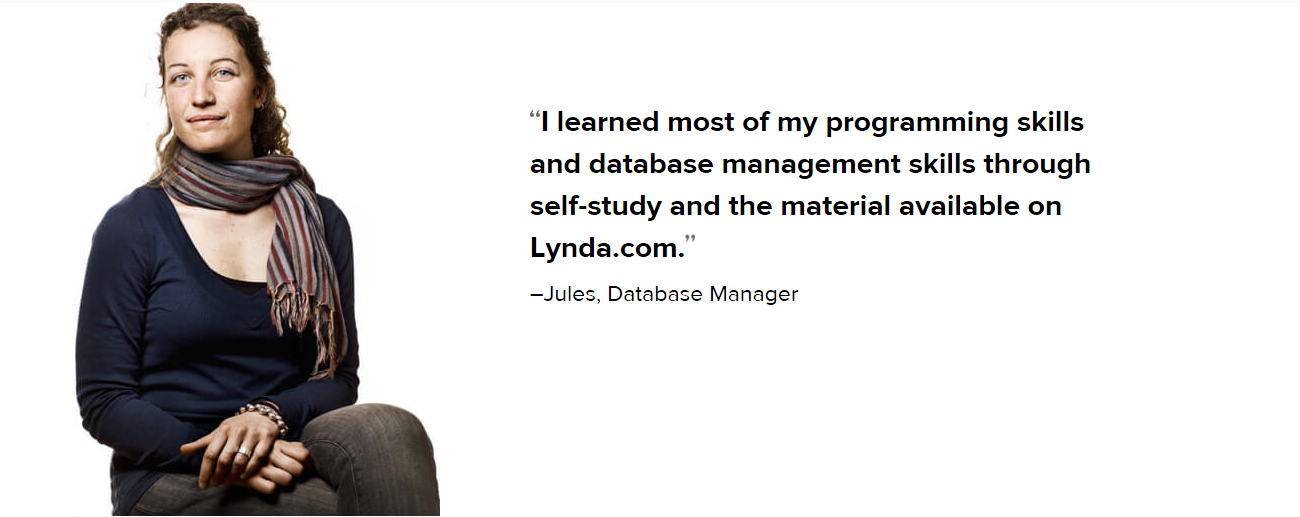
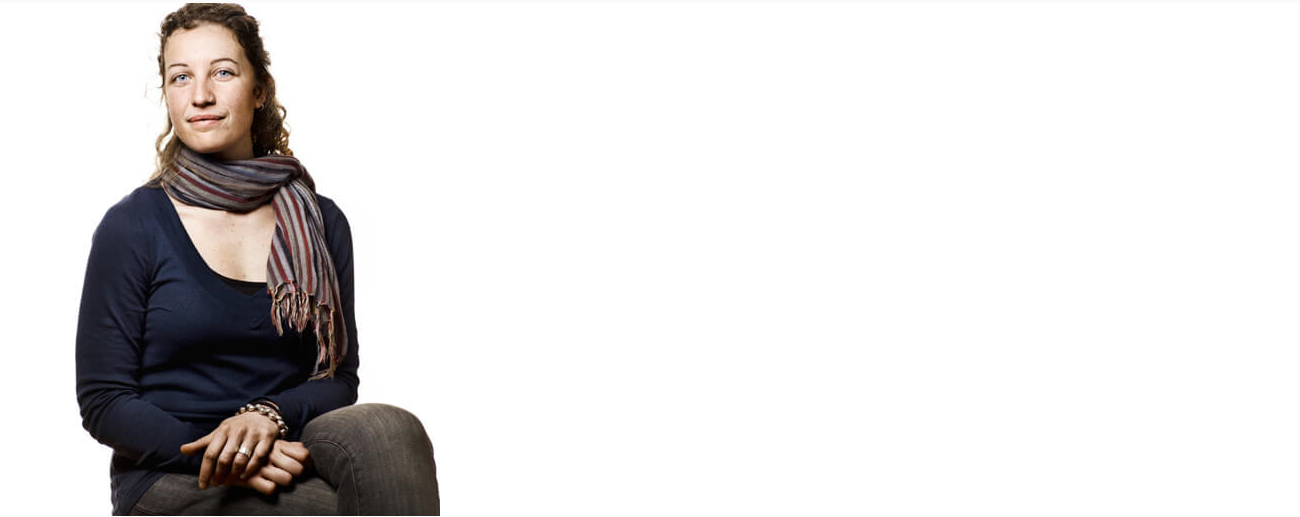
footer

diff --git a/src/app/hsedu/hsedu-home/hsedu-home.component.html b/src/app/hsedu/hsedu-home/hsedu-home.component.html
@@ -67,17 +67,53 @@
     <h2 style="margin-top: 20px;">{{'Easy Efficient Beyond Expectations'|translate}}</h2> -->
 
   </div>
-<div class="container" style="margin-top: 20px">
-  <ngb-carousel *ngIf="images">
-    <ng-template ngbSlide *ngFor="let image of images">
-      <div style="background:#898c9d">
-          <img  style="opacity: 0.75;" [src]="image" alt="slide">
-      </div>
-   
-     
-    </ng-template>
-  </ngb-carousel>
-</div>
- 
+  <div class="container" style="margin-top: 20px">
+    <ngb-carousel *ngIf="images">
+      <ng-template ngbSlide>
+        <div>
+          <img  [src]="images[0]" alt="slide">
+        </div>
+        <div class="carousel-caption">
+
+          <p style="font-weight:bold"> I learned most of my programming skills and database management skills through self-study and the material available
+            on HUASHI EDU.
+
+          </p>
+          <p>–Jules, Database Manager</p>
+        </div>
+
+
+      </ng-template>
+      <ng-template ngbSlide>
+        <div>
+          <img  [src]="images[1]" alt="slide">
+        </div>
+        <div class="carousel-caption">
+
+          <p style="font-weight:bold"> Ben Long is the best, 90% of what I know about photography I've learned from watching his videos on HUASHI EDU.
+          </p>
+          <p>–Paul, Photography Director</p>
+        </div>
+
+
+      </ng-template>
+      <ng-template ngbSlide>
+        <div >
+          <img [src]="images[2]" alt="slide">
+        </div>
+        <div class="carousel-caption">
+
+          <p style="font-weight:bold"> I've been out of college for about two years, HUASHI EDU has changed my outlook on my career. Taking the foundational
+            courses in marketing has helped me launch my career.
+
+          </p>
+          <p>–Jenny, Associate Marketing</p>
+        </div>
+
+
+      </ng-template>
+    </ngb-carousel>
+  </div>
+
   <app-hsedu-footer></app-hsedu-footer>
 </div>

diff --git a/src/app/hsedu/hsedu-footer/hsedu-footer.component.html b/src/app/hsedu/hsedu-footer/hsedu-footer.component.html
@@ -26,7 +26,7 @@
                   <div class="col-lg-12 col-md-12 col-sm-12 col-xs-12">
                       <div class="row footer-list-box">
                           <div class="col-lg-3 col-md-3 col-sm-6 col-xs-7 footer-img" style="padding:0;">
-                              <a href="/"><img src="/assets/img/logo.png" alt=""></a>
+                              <a href="/"><img src="/assets/img/logo.png" width="120" height="35" alt=""></a>
                               <p style="margin-top: 10px;">{{'Online Learning and Training Platform'|translate}}</p>
                           </div>
                           <div class="col-lg-3 col-md-3 col-sm-6 col-xs-5" id="footer_phone">

diff --git a/src/app/hsedu/hsedu-home/hsedu-home.component.css b/src/app/hsedu/hsedu-home/hsedu-home.component.css
@@ -131,3 +131,24 @@ a:link {
 .carousel-indicators li {
   background-color: #0692E1 !important;
 }
+
+.carousel-caption {
+  position: absolute;
+  right: 5%;
+  bottom: 20px;
+  left: 48%;
+  z-index: 10;
+  top: 15%;
+  padding-top: 20px;
+  padding-bottom: 20px;
+  color: #fff;
+  text-align: center;
+}
+
+.carousel-caption p {
+  text-align: left;
+  color: black;
+  margin: 0;
+  font-size: 28px;
+  line-height: 42px;
+}
